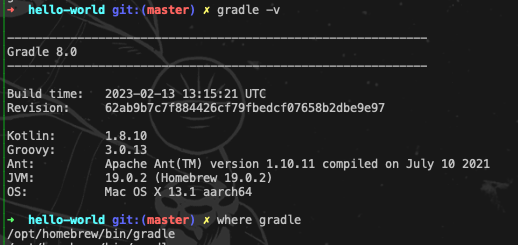
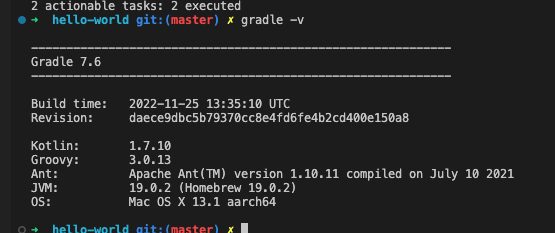
Fixed build.gradle, updated screenshots.

Changed region(s): [[0.0, 0.0, 0.9575, 1.0]]

diff --git a/SUBMISSION.md b/SUBMISSION.md
@@ -37,5 +37,7 @@ The first argument is the Alt-text for the image. The second argument is the pat
 - [5 pts]A screen capture showing the version of Gradle that you installed and its install directory.
 ![Screen Capture #8](images/gradle-v.png)
 - [10 pts] A screen capture showing a successful build using the Gradle script.
+![Screen Capture #9](images/gradle-build.png)
 - [5 pts] A screen capture showing a successful execution of the JAR file created from the Gradle build.
+![Screen Capture #10](images/gradle-exec.png)
 - [10 pts] Links to the complete and correct [hello-world/build.gradle](hello-world/build.gradle) file.
